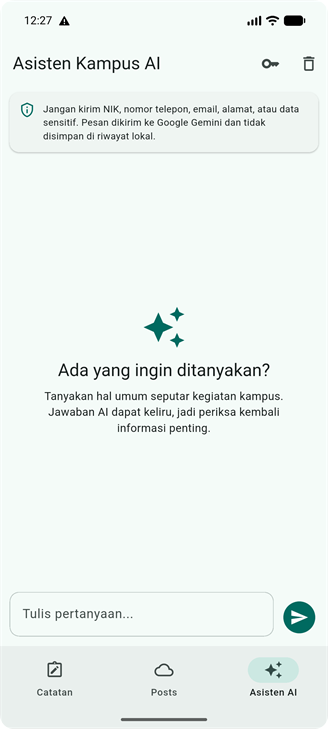
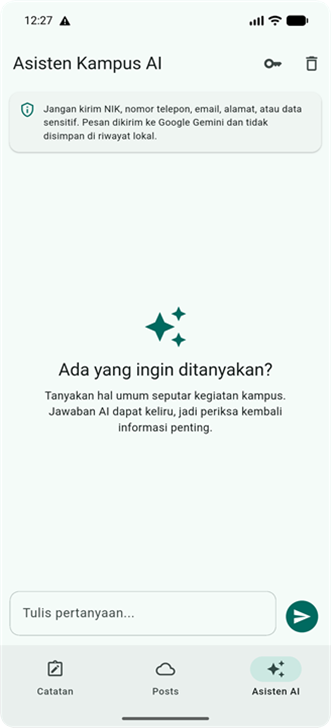
10-week-10-ai-feature-integration

diff --git a/10-week-10-ai-feature-integration/README.md b/10-week-10-ai-feature-integration/README.md
@@ -98,9 +98,9 @@ Request live Gemini juga berhasil diuji di CPH2387 dengan prompt umum `Halo`.
 Screenshot halaman chat dan dialog API key diambil dari build terbaru di emulator
 Android, dengan komponen kartu dan warna teal mengikuti gaya Minggu 8. Respons Gemini
 live menggunakan prompt umum `Halo`; screenshot respons tersebut diambil sebelum
-penyesuaian visual dan ditampilkan sebagai bukti hasil uji. Semua screenshot dibuat
-berukuran 328 x 729 piksel dengan sudut membulat, mengikuti screenshot Minggu 8.
-Tidak ada key atau data pribadi yang terlihat.
+penyesuaian visual dan ditampilkan sebagai bukti hasil uji. Ukuran semua screenshot
+disamakan dengan screenshot portrait Week 6 (331 x 728 piksel) dan sudutnya tetap
+membulat. Tidak ada key atau data pribadi yang terlihat.
 
 | Respons Gemini live (tampilan sebelum penyesuaian visual) | Halaman chat terbaru |
 |---|---|

diff --git a/10-week-10-ai-feature-integration/screenshots/README.md b/10-week-10-ai-feature-integration/screenshots/README.md
@@ -4,8 +4,8 @@ Screenshot halaman chat dan dialog API key diambil dari build terbaru aplikasi
 Minggu 10 pada emulator Android. Keduanya menampilkan pembaruan visual bergaya
 Minggu 8. Respons Gemini live diambil sebelumnya pada perangkat CPH2387 sebelum
 penyesuaian visual; prompt uji hanya `Halo`. Tidak ada credential atau data pribadi
-di screenshot. Semua gambar disamakan ke ukuran 328 x 729 piksel dengan sudut
-membulat, mengikuti screenshot Minggu 8.
+di screenshot. Semua gambar disamakan ke ukuran 331 x 728 piksel seperti screenshot
+portrait Week 6, dengan sudut membulat.
 
 | File | Kondisi |
 |---|---|
